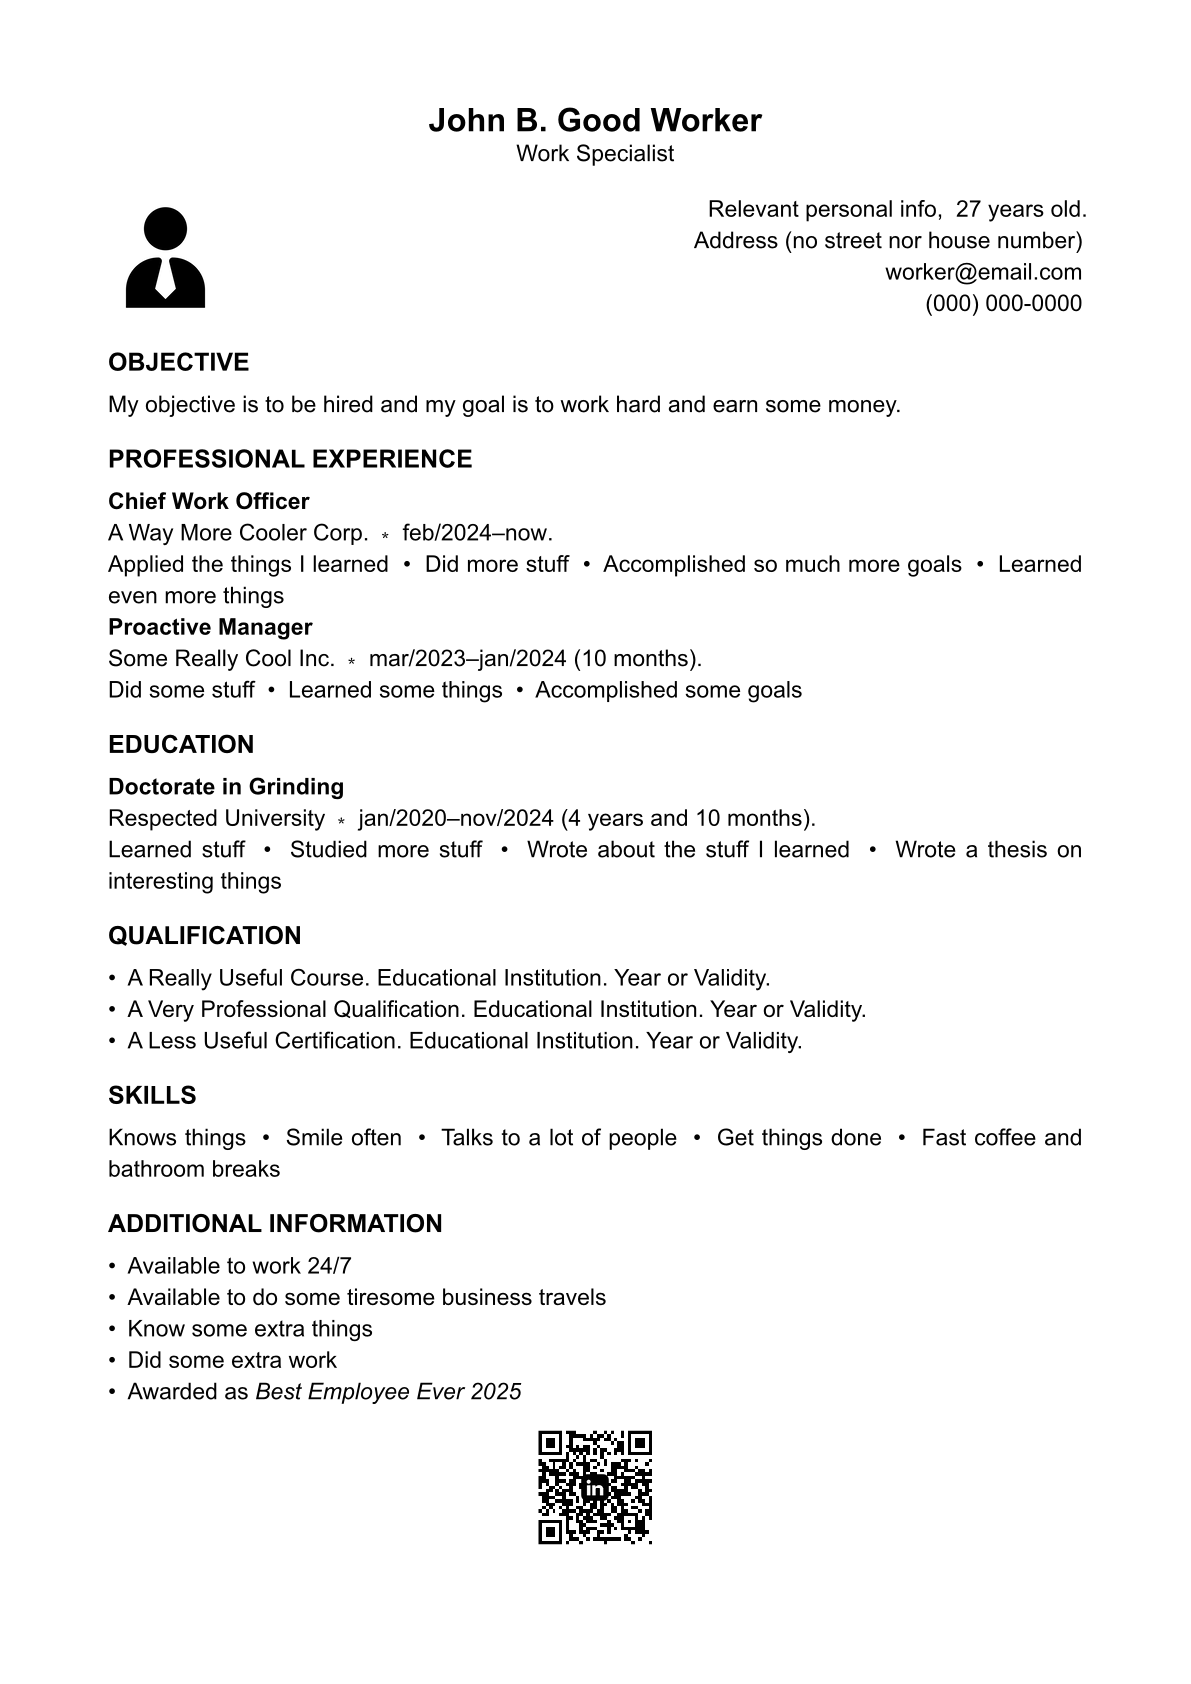
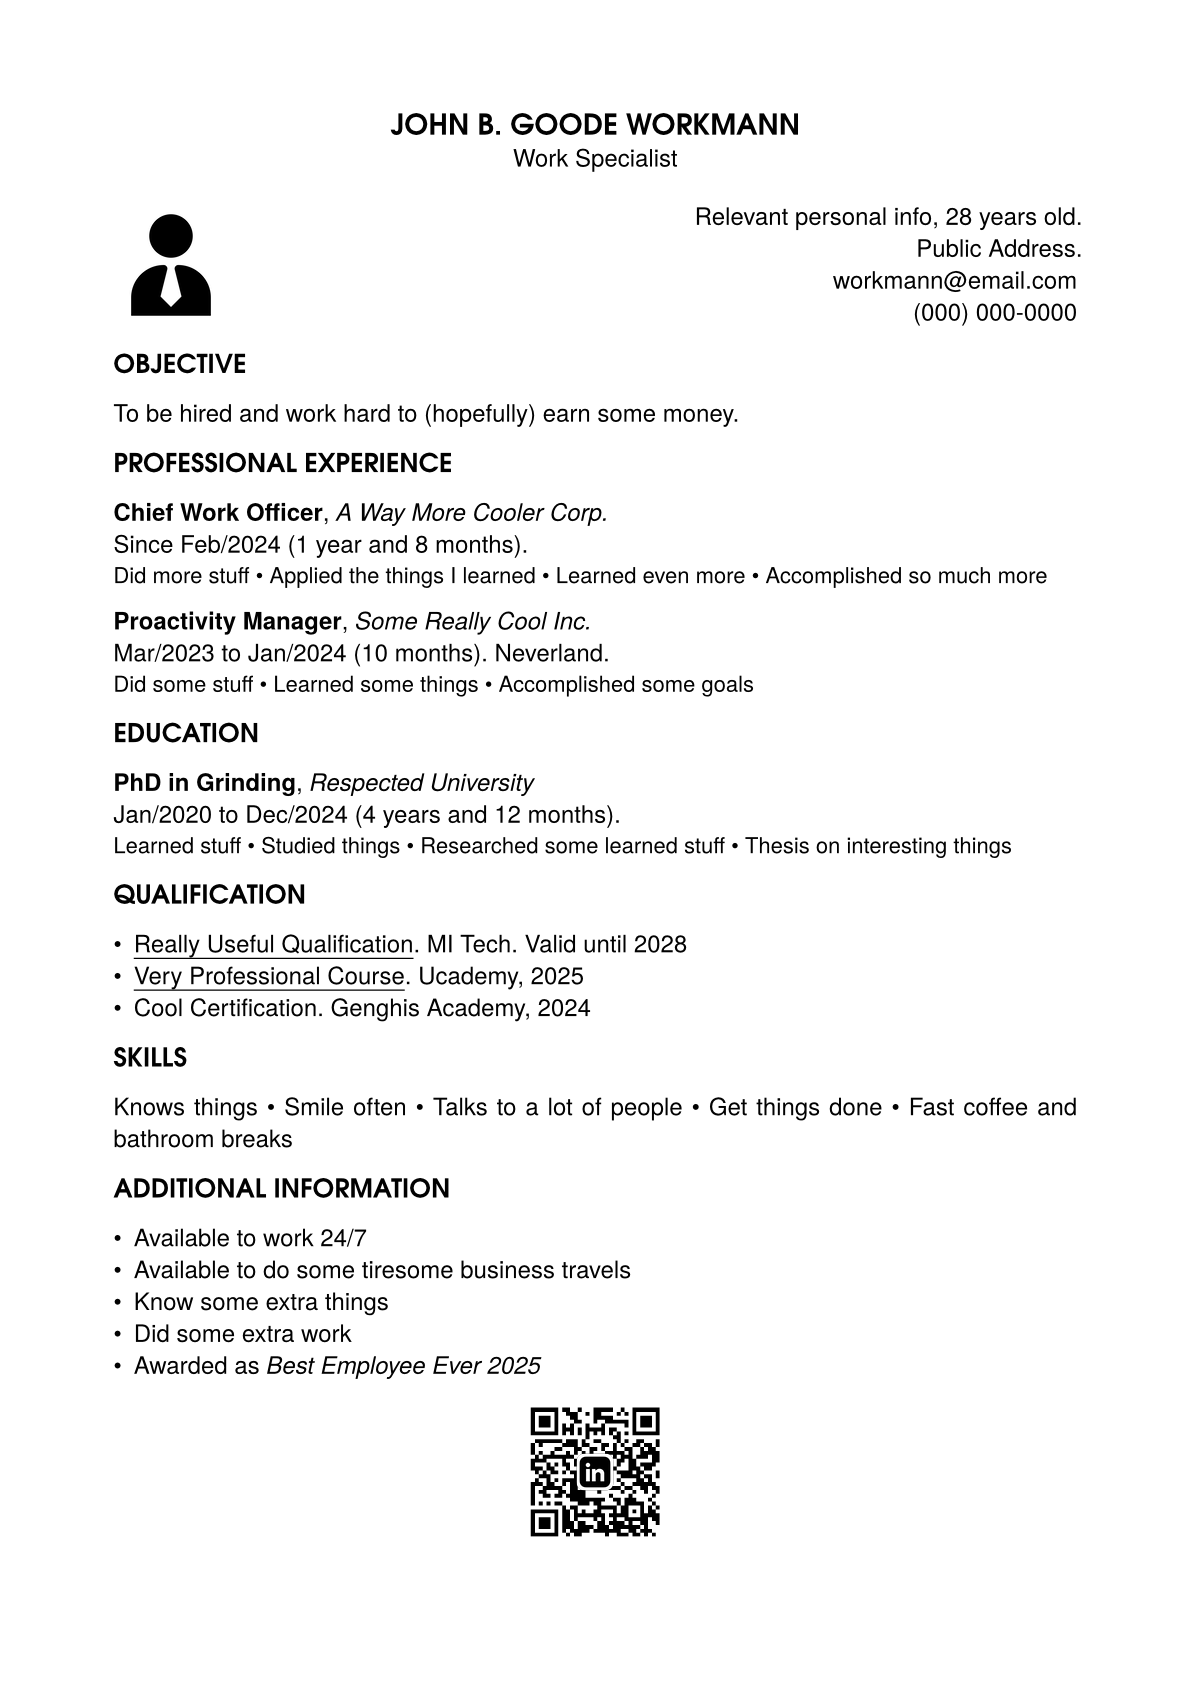
docs: major update

diff --git a/README.md b/README.md
@@ -1,6 +1,6 @@
 # Minimal Résumé
 
-<center>
+<div align="center">
 
 <p class="hidden">
   Simple and professional résumé for professional people
@@ -21,20 +21,27 @@
 [![Contribute](https://img.shields.io/badge/Contribute-%23353c44)](https://github.com/mayconfmelo/min-resume/blob/main/docs/contributing.md)
 
 
-</center>
+<p class="hidden">
+
+[![Tests](https://github.com/mayconfmelo/min-resume/actions/workflows/tests.yml/badge.svg)](https://github.com/mayconfmelo/min-resume/actions/workflows/tests.yml)
+[![Build](https://github.com/mayconfmelo/min-resume/actions/workflows/build.yml/badge.svg)](https://github.com/mayconfmelo/min-resume/actions/workflows/build.yml)
+[![Spellcheck](https://github.com/mayconfmelo/min-resume/actions/workflows/spellcheck.yml/badge.svg)](https://github.com/mayconfmelo/min-resume/actions/workflows/spellcheck.yml)
+
+</p>
+</div>
 
 
 ## Quick Start
 
 ```typst
-#import "@preview/min-resume:0.1.0": resume
+#import "@preview/min-resume:0.2.0": resume
 #show: manual.resume(
-  name: "Your Name",
-  title: "Academic Title and/or Main Occupation",
+  name: "Name",
+  title: "Academic title and/or occupation",
   photo: image("photo.png"),
   personal: "Relevant personal info",
   birth: (1997, 05, 19),
-  address: "Your Address (no street nor house number)",
+  address: "Public address",
   email: "example@email.com",
   phone: "+1 (000) 000-0000",
 )
@@ -43,24 +50,43 @@
 
 ## Description
 
-Generate a modern and direct to the point résumé, fit for today's Human Resources
-demands of assertiveness. There is no colorful designs, figures, creative fonts,
-nor anything that diverts attention when reading the document: is just plain old
-black sans-serif text in white paper. In fact, if one sees only the resulting
-résumé, may say it was written in Word — but it was written with all of
-Typst's benefits and conveniences.
+Generate a modern and straightforward résumé that meets today's Human Resources
+demands for assertiveness. There are no colorful designs, images, creative fonts,
+or anything that distracts from reading the document: it's just plain black
+sans-serif text on white paper. In fact, someone who sees only the resulting
+résumé might think it was written in Word — but it was actually created with all
+of Typst's benefits and conveniences.
 
-The package was written by a Brazilian, so it uses some common Brazilian
-practices when writing a résumé — but it is simple and minimalistic, even to
-Brazilian standards. Therefore, if some information are missing or  unnecessary
-to you, feel free to adapt it to your needs.
+The package was created with Brazilian trends and practices for Human Resources
+in mind; thus, if any information is missing or unnecessary for you, feel free
+to adapt it to your needs.
+
 
 ## Feature List
 
-- Typst document
-  - `#entry` for job experience or academic formation
-  - `#list` for special inline lists
-  - `#linkedin` for Linkedin profile QR code
-  - `#letter` for professional letter
-- YAML document
-- 
+- Optional data
+  - Academic title and/or main occupation
+  - Personal information
+  - Age (calculated from birth date)
+  - Email (with _mailto:_ link)
+  - Phone number (with WhatsApp link)
+  - Photo
+  - Linkedin profile QR Code
+  - Professional letter
+- Standard job experience/academic formation entries
+  - Automatic time calculation
+- Special inline lists
+- Linkedin profile QR code
+- Professional letter
+- YAML-generated document
+
+
+## Default Fonts
+
+**Text:**
+[TeX Gyre Heros](https://www.gust.org.pl/projects/e-foundry/tex-gyre/heros/qhv2.004otf.zip) or
+Arial
+
+**Headings:**
+[TeX Gyre Adventor](https://www.gust.org.pl/projects/e-foundry/tex-gyre/adventor/qag2_501otf.zip) or 
+Century Gothic

diff --git a/docs/changelog.md b/docs/changelog.md
@@ -35,13 +35,13 @@
 - Removed: `#resume(font)`
 - Added: Development tests (using `tt`)
 - Added: `#resume(typst-defaults)` to disable _min-resume_ defaults
-- Added: `#resume(data)` for YAML-based résumé
+- Added: `#resume(data)` for YAML-based document
 - Added: `#resume(cfg)` for general settings
-- Updated: `#resume(show-country-code)` &larr; `#resume(cfg.country-code)`
-- Updated: `#resume(letter)` &larr; `#resume(cfg.letter-show)`
-- Updated: `#resume(skills)` &larr; `#resume(cfg.lists)`
-- Updated: `#resume(lang-data)` &larr; `#resume(translation)`
-- Updated: `#resume(personal)` &larr; `#resume(info)`
-- Updated: `#skills` &larr; `#list`
-- Updated: `#xp`/`#edu` &larr; `#entry`
-- Updated: `#Linkedin-qrcode` &larr; `#linkedin`
+- Updated: `#resume(show-country-code)` &rarr; `#resume(cfg.country-code)`
+- Updated: `#resume(letter)` &rarr; `#resume(cfg.letter-show)`
+- Updated: `#resume(skills)` &rarr; `#resume(cfg.lists)`
+- Updated: `#resume(lang-data)` &rarr; `#resume(cfg.transl)`
+- Updated: `#resume(personal)` &rarr; `#resume(info)`
+- Updated: `#skills` &rarr; `#list`
+- Updated: `#xp`/`#edu` &rarr; `#entry`
+- Updated: `#linkedin-qrcode` &rarr; `#linkedin`
